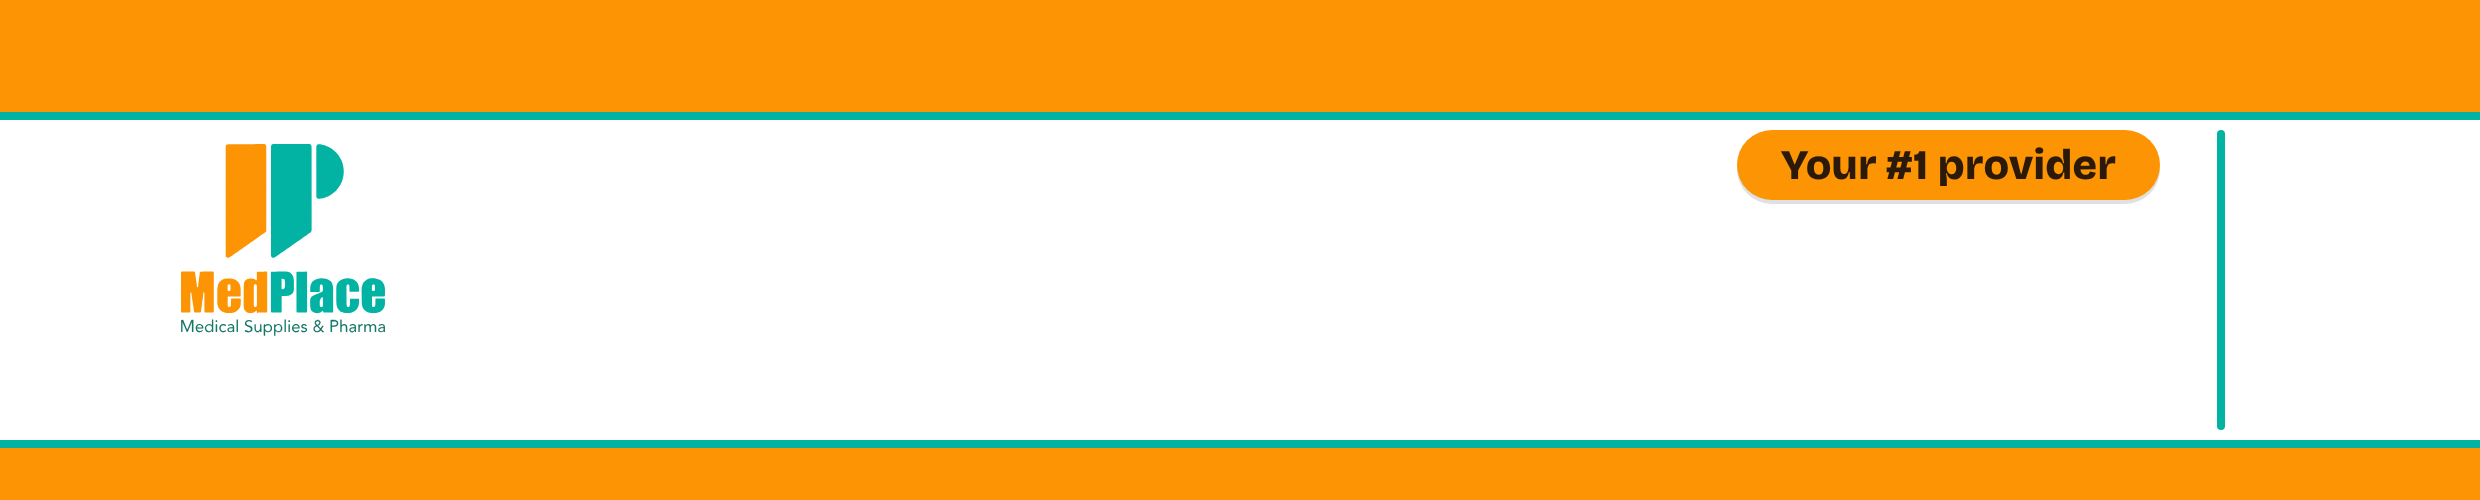
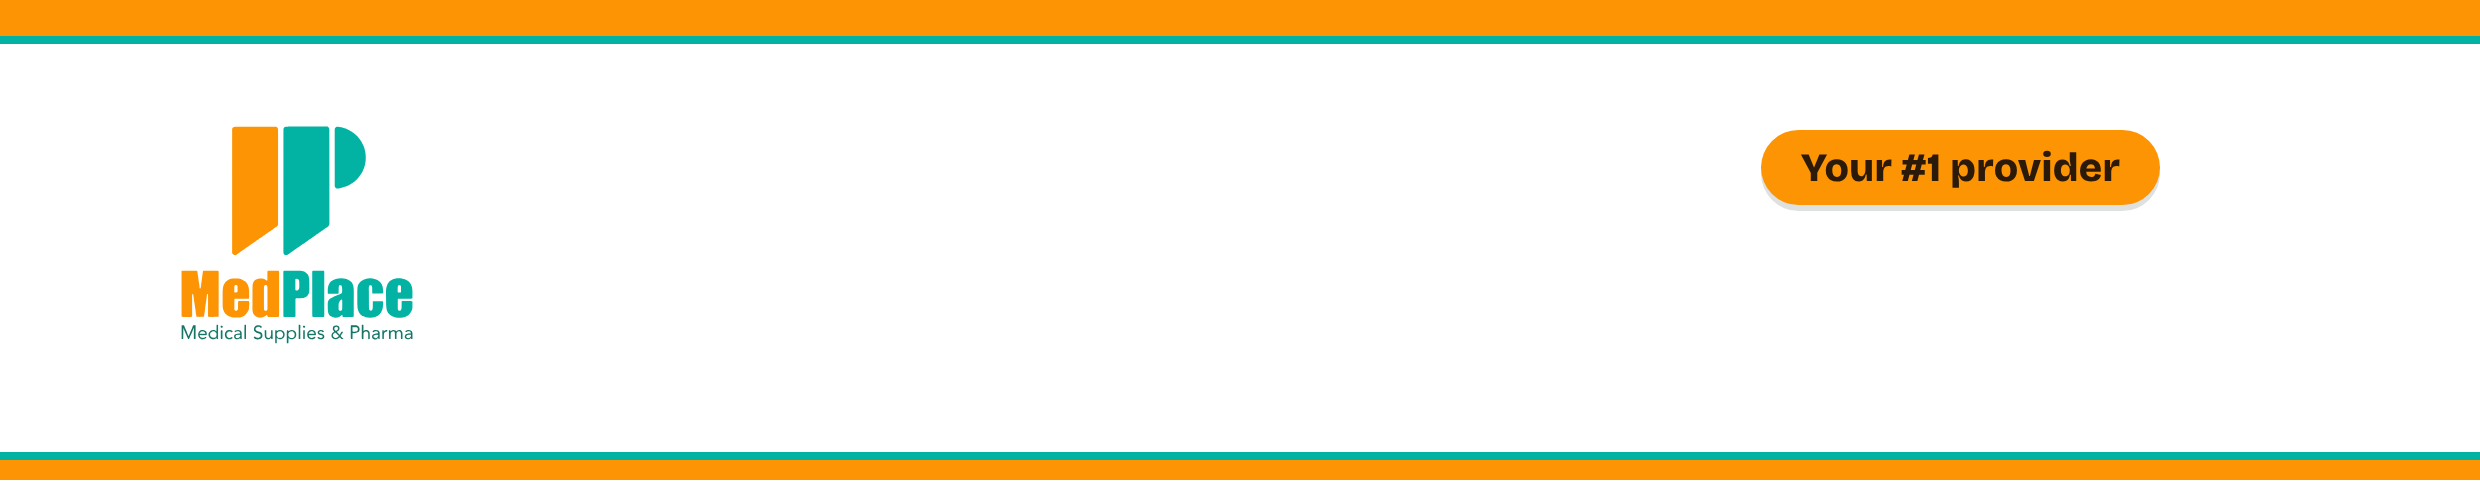
MedSource, MedSource World and MedPlace first page headers: original approved looks, tagline only, fitted to spec zones
Claude-Session: https://claude.ai/code/session_01DnZsnBvbvTj4gLjw8LDG9Z

diff --git a/medsource/print/2026-10-medsource-letterhead-template/source.html b/medsource/print/2026-10-medsource-letterhead-template/source.html
@@ -4,9 +4,9 @@
 <meta charset="utf-8">
 <title>MedSource Digital Sales letterhead</title>
 <style>
-@font-face{font-family:"Poppins";font-weight:400;src:url("assets/Poppins-Regular.ttf")}
-@font-face{font-family:"Poppins";font-weight:500;src:url("assets/Poppins-Medium.ttf")}
-@font-face{font-family:"Poppins";font-weight:700;src:url("assets/Poppins-Bold.ttf")}
+@font-face{font-family:"Poppins";font-weight:400;src:url("../../brand/fonts/poppins/Poppins-Regular.ttf")}
+@font-face{font-family:"Poppins";font-weight:500;src:url("../../brand/fonts/poppins/Poppins-Medium.ttf")}
+@font-face{font-family:"Poppins";font-weight:700;src:url("../../brand/fonts/poppins/Poppins-Bold.ttf")}
 :root{--forest:#445C44;--green:#7AB537;--greenstrong:#4A7F08;--navy:#033F75;--slate:#5A6470;--white:#FFFFFF}
 *{box-sizing:border-box;margin:0;padding:0}
 body{background:#888;font-family:"Poppins",sans-serif;display:flex;flex-direction:column;gap:40px;padding:40px;width:2560px}
@@ -32,20 +32,20 @@ body{background:#888;font-family:"Poppins",sans-serif;display:flex;flex-directio
 </head>
 <body>
 
-<div class="piece" id="h1"><!-- spec: letterhead-first-page-spec.jpg; zone A (177-1240, 360-430) and zone B (1300-2160, 215-430) stay blank -->
-  <div class="band" style="top:0;height:112px;background:var(--forest)"></div>
-  <div class="band" style="top:112px;height:8px;background:var(--green)"></div>
-  <img style="position:absolute;left:177px;top:140px;height:190px" src="assets/medsource-landscape.svg" alt="MedSource Medical Supplies and Equipment">
-  <div style="position:absolute;right:320px;top:130px;height:75px;display:flex;align-items:center;font-size:44px;letter-spacing:.02em;white-space:nowrap"><b style="font-weight:700;color:var(--navy)">Certified #Med<span style="color:var(--greenstrong)">Mura</span></b></div>
-  <div style="position:absolute;left:2217px;top:130px;width:6px;height:300px;background:var(--green)"></div>
-  <div class="band" style="top:440px;height:8px;background:var(--green)"></div>
-  <div class="band" style="top:448px;height:52px;background:var(--navy)"></div>
+<div class="piece" id="h1"><!-- spec: letterhead-first-page-spec.jpg; original approved look; zone A (177-1240, 360-430) and zone B (1300-2160, 215-430) stay blank; logo ends above y 350 -->
+  <div class="band" style="top:0;height:40px;background:var(--forest)"></div>
+  <div class="band" style="top:40px;height:6px;background:var(--green)"></div>
+  <img style="position:absolute;left:177px;top:135px;height:200px" src="../../brand/logos/medsource/medsource-landscape.svg" alt="MedSource Medical Supplies and Equipment">
+  <div style="position:absolute;right:320px;top:130px;height:75px;display:flex;align-items:center;font-weight:700;font-size:46px;letter-spacing:.02em;color:var(--navy);white-space:nowrap">Certified #Med<span style="color:var(--greenstrong)">Mura</span></div>
+  <div style="position:absolute;left:2217px;top:130px;width:5px;height:176px;background:var(--green)"></div>
+  <div class="band" style="top:442px;height:6px;background:var(--green)"></div>
+  <div class="band" style="top:448px;height:20px;background:var(--navy)"></div>
 </div>
 
 <div class="piece" id="h2">
   <div class="band" style="top:0;height:22px;background:var(--forest)"></div>
   <div class="band" style="top:22px;height:4px;background:var(--green)"></div>
-  <img class="logo" src="assets/medsource-landscape.svg" alt="MedSource Medical Supplies and Equipment">
+  <img class="logo" src="../../brand/logos/medsource/medsource-landscape.svg" alt="MedSource Medical Supplies and Equipment">
   <div class="tag"><i></i><div>Certified #Med<span>Mura</span></div></div>
   <div class="band" style="top:192px;height:4px;background:var(--green)"></div>
   <div class="band" style="top:196px;height:14px;background:var(--navy)"></div>

diff --git a/medsource/print/2026-10-legal-letterhead-template/source.html b/medsource/print/2026-10-legal-letterhead-template/source.html
@@ -4,9 +4,9 @@
 <meta charset="utf-8">
 <title>MedSource World letterhead</title>
 <style>
-@font-face{font-family:"Poppins";font-weight:400;src:url("assets/Poppins-Regular.ttf")}
-@font-face{font-family:"Poppins";font-weight:500;src:url("assets/Poppins-Medium.ttf")}
-@font-face{font-family:"Poppins";font-weight:700;src:url("assets/Poppins-Bold.ttf")}
+@font-face{font-family:"Poppins";font-weight:400;src:url("../../brand/fonts/poppins/Poppins-Regular.ttf")}
+@font-face{font-family:"Poppins";font-weight:500;src:url("../../brand/fonts/poppins/Poppins-Medium.ttf")}
+@font-face{font-family:"Poppins";font-weight:700;src:url("../../brand/fonts/poppins/Poppins-Bold.ttf")}
 :root{--forest:#445C44;--green:#7AB537;--navy:#033F75;--slate:#5A6470;--white:#FFFFFF}
 *{box-sizing:border-box;margin:0;padding:0}
 body{background:#888;font-family:"Poppins",sans-serif;display:flex;flex-direction:column;gap:40px;padding:40px;width:2560px}
@@ -38,16 +38,12 @@ body{background:#888;font-family:"Poppins",sans-serif;display:flex;flex-directio
 </head>
 <body>
 
-<div class="piece" id="h1">
+<div class="piece" id="h1"><!-- spec: letterhead-first-page-spec.jpg; original approved look; zone A (177-1240, 360-430) and zone B (1300-2160, 215-430) stay blank; logo ends above y 350 -->
   <div class="band" style="top:0;height:40px;background:var(--forest)"></div>
   <div class="band" style="top:40px;height:6px;background:var(--green)"></div>
-  <img class="logo" src="assets/medsource-world.svg" alt="MedSource World">
-  <div class="tag">Sourcing the Future of Healthcare</div>
-  <div class="addr">
-    <div class="txt"><b>209 Riverside Drive</b><br>Provident Village<br>Marikina City, Philippines</div>
-    <div class="rule"></div>
-    <div class="pin"><svg width="34" height="34" viewBox="0 0 24 24"><path fill="#fff" d="M12 2a7 7 0 0 0-7 7c0 5.2 7 13 7 13s7-7.8 7-13a7 7 0 0 0-7-7zm0 9.5A2.5 2.5 0 1 1 12 6.5a2.5 2.5 0 0 1 0 5z"/></svg></div>
-  </div>
+  <img style="position:absolute;left:177px;top:128px;height:176px" src="../../brand/logos/medsource-world/medsource-world.svg" alt="MedSource World">
+  <div style="position:absolute;right:320px;top:130px;height:75px;display:flex;align-items:center;font-weight:400;font-size:36px;letter-spacing:.04em;color:var(--forest);white-space:nowrap">Sourcing the Future of Healthcare</div>
+  <div style="position:absolute;left:2217px;top:130px;width:5px;height:176px;background:var(--green)"></div>
   <div class="band" style="top:442px;height:6px;background:var(--green)"></div>
   <div class="band" style="top:448px;height:20px;background:var(--navy)"></div>
 </div>
@@ -55,7 +51,7 @@ body{background:#888;font-family:"Poppins",sans-serif;display:flex;flex-directio
 <div class="piece" id="h2">
   <div class="band" style="top:0;height:30px;background:var(--forest)"></div>
   <div class="band" style="top:30px;height:5px;background:var(--green)"></div>
-  <img class="logo" src="assets/medsource-world.svg" alt="MedSource World">
+  <img class="logo" src="../../brand/logos/medsource-world/medsource-world.svg" alt="MedSource World">
   <div class="tag">Sourcing the Future of Healthcare</div>
   <div class="band" style="top:296px;height:5px;background:var(--green)"></div>
   <div class="band" style="top:301px;height:14px;background:var(--navy)"></div>

diff --git a/medplace/print/2026-10-letterhead-template/source.html b/medplace/print/2026-10-letterhead-template/source.html
@@ -11,16 +11,14 @@ body{background:#888;font-family:"DM Sans",sans-serif;display:flex;flex-directio
 #h1{height:500px}#h2{height:250px}#f{height:250px}
 .pill{position:absolute;right:177px;background:var(--orange);color:#2b1a0a;font-family:"Bricolage Grotesque";font-weight:800;border-radius:999px;box-shadow:0 6px 0 rgba(31,42,46,.14);display:flex;align-items:center;justify-content:center}
 </style></head><body>
-<div class="piece" id="h1"><!-- spec: letterhead-first-page-spec.jpg; zone A (177-1240, 360-430) and zone B (1300-2160, 215-430) stay blank -->
-  <div class="abs" style="left:0;top:0;width:2480px;height:112px;background:var(--orange)"></div>
-  <div class="abs" style="left:0;top:112px;width:2480px;height:8px;background:var(--teal)"></div>
-  <img class="abs" style="left:177px;top:140px;height:200px" src="../../brand/logos/medplace.svg" alt="MedPlace Medical Supplies and Pharma">
-  <div class="pill" style="right:320px;top:130px;height:70px;padding:0 44px;font-size:42px;box-shadow:0 4px 0 rgba(31,42,46,.14)">Your #1 provider</div>
-  <div class="abs" style="left:2217px;top:130px;width:8px;height:300px;border-radius:4px;background:var(--teal)"></div>
-  <div class="abs" style="left:0;top:440px;width:2480px;height:8px;background:var(--teal)"></div>
-  <div class="abs" style="left:0;top:448px;width:2480px;height:52px;background:var(--orange)"></div>
+<div class="piece" id="h1"><!-- spec: letterhead-first-page-spec.jpg; original approved look; zone A (177-1240, 360-430) and zone B (1300-2160, 215-430) stay blank; logo ends above y 350 -->
+  <div class="abs" style="left:0;top:0;width:2480px;height:36px;background:var(--orange)"></div>
+  <div class="abs" style="left:0;top:36px;width:2480px;height:8px;background:var(--teal)"></div>
+  <img class="abs" style="left:177px;top:122px;height:226px" src="../../brand/logos/medplace.svg" alt="MedPlace Medical Supplies and Pharma">
+  <div class="pill" style="right:320px;top:130px;height:75px;padding:0 40px;font-size:40px;white-space:nowrap">Your #1 provider</div>
+  <div class="abs" style="left:0;top:452px;width:2480px;height:8px;background:var(--teal)"></div>
+  <div class="abs" style="left:0;top:460px;width:2480px;height:20px;background:var(--orange)"></div>
 </div>
-
 <div class="piece" id="h2">
   <div class="abs" style="left:0;top:0;width:2480px;height:22px;background:var(--orange)"></div>
   <div class="abs" style="left:0;top:22px;width:2480px;height:4px;background:var(--teal)"></div>

diff --git a/medsource/README.md b/medsource/README.md
@@ -20,7 +20,7 @@ Every MedSource publication in one place: social posts, signage and print, plus 
 | --- | --- | --- | --- | --- |
 | Oct 10, 2026 | [DSWD Tarpaulin 2 x 5 ft](print/2026-10-dswd-tarpaulin/print.md) | Sta. Lucia Mall | Draft | <img src="print/2026-10-dswd-tarpaulin/mockups/preview-1152x2880.png" width="60"> |
 | Oct 13, 2026 | [MedSource Digital Sales Letterhead Template](print/2026-10-medsource-letterhead-template/print.md) | Digital sales | Draft | <img src="print/2026-10-medsource-letterhead-template/medsource-digital-sales-letterhead-header-first-page-2480x500.png" width="120"> |
-| Oct 10, 2026 | [Legal Government Letterhead Template](print/2026-10-legal-letterhead-template/print.md) | MedSource World, Marikina City | Draft | <img src="print/2026-10-legal-letterhead-template/header-first-page-2480x500.png" width="120"> |
+| Oct 10, 2026 | [Legal Government Letterhead Template](print/2026-10-legal-letterhead-template/print.md) | MedSource World, Marikina City | Draft | <img src="print/2026-10-legal-letterhead-template/medsource-world-government-letterhead-header-first-page-2480x500.png" width="120"> |
 | Oct 2026 | [Warehouse Window Sticker](print/2026-10-warehouse-window-sticker/print.md) | Warehouse glass wall | Approved | <img src="print/2026-10-warehouse-window-sticker/mockups/style-b-street.png" width="120"> |
 
 ## Brand kit

diff --git a/medsource/print/2026-10-legal-letterhead-template/print.md b/medsource/print/2026-10-legal-letterhead-template/print.md
@@ -10,16 +10,18 @@
 
 Marked as the legal government letterhead template. Old letterhead used as basis only (logo with tagline, address with pin). Look follows the design system: straight forest and navy bands with brand-green stripes. Tagline: Sourcing the Future of Healthcare.
 
+First page header keeps the original approved look, with only the tagline (no address or contact, the system prints those), logo ending above y 350.
+
 ## Files
 
 | Piece | Size | File |
 | --- | --- | --- |
-| First page header (with address) | 2480 × 500 px | [PNG](header-first-page-2480x500.png) |
+| First page header (with address) | 2480 × 500 px | [PNG](medsource-world-government-letterhead-header-first-page-2480x500.png) |
 | Later pages header (no address, smaller) | 2480 × 500 px | [PNG](header-later-pages-2480x500.png) |
 | Footer | 2480 × 250 px | [PNG](footer-2480x250.png) |
 
 ## Preview
 
-<img src="header-first-page-2480x500.png" width="640">
+<img src="medsource-world-government-letterhead-header-first-page-2480x500.png" width="640">
 <img src="header-later-pages-2480x500.png" width="640">
 <img src="footer-2480x250.png" width="640">

diff --git a/medsource/print/2026-10-medsource-letterhead-template/print.md b/medsource/print/2026-10-medsource-letterhead-template/print.md
@@ -12,7 +12,7 @@ Later pages header revamped Oct 12, 2026 to a slim 2480 × 250 px band (small lo
 
 Brand level letterhead, the Digital Sales header: Certified #MedMura, 0906 299 3555 and sales.quotations@medsource.com.ph. Retail companion to the [MedSource World letterhead](../2026-10-legal-letterhead-template/print.md). Same straight forest and navy bands with brand-green stripes.
 
-Revamped Oct 13, 2026 to the repo letterhead format: [LETTERHEAD-SPEC.md](../../../LETTERHEAD-SPEC.md). First page header keeps Zone A (branch tag) and Zone B (phone, email, address) blank because the system prints them, the logo ends above y 350, and only the optional tagline sits at the top right.
+First page header keeps the original approved look, with only the tagline (no address or contact, the system prints those), logo ending above y 350. Fitted to the repo letterhead format: [LETTERHEAD-SPEC.md](../../../LETTERHEAD-SPEC.md).
 
 ## Files
 

diff --git a/medplace/print/2026-10-letterhead-template/print.md b/medplace/print/2026-10-letterhead-template/print.md
@@ -10,7 +10,7 @@
 
 Brand letterhead. Straight orange and teal bands, sticker-style Your #1 provider pill, dark ink on orange. Contact: 0995-156-0801, davemedplace@gmail.com. No address yet.
 
-Revamped Oct 13, 2026 to the repo letterhead format: [LETTERHEAD-SPEC.md](../../../LETTERHEAD-SPEC.md). First page header keeps Zone A (branch tag) and Zone B (phone, email, address) blank because the system prints them, the logo ends above y 350, and only the optional tagline sits at the top right.
+First page header keeps the original approved look, with only the tagline (no address or contact, the system prints those), logo ending above y 350. Fitted to the repo letterhead format: [LETTERHEAD-SPEC.md](../../../LETTERHEAD-SPEC.md).
 
 ## Files
 
